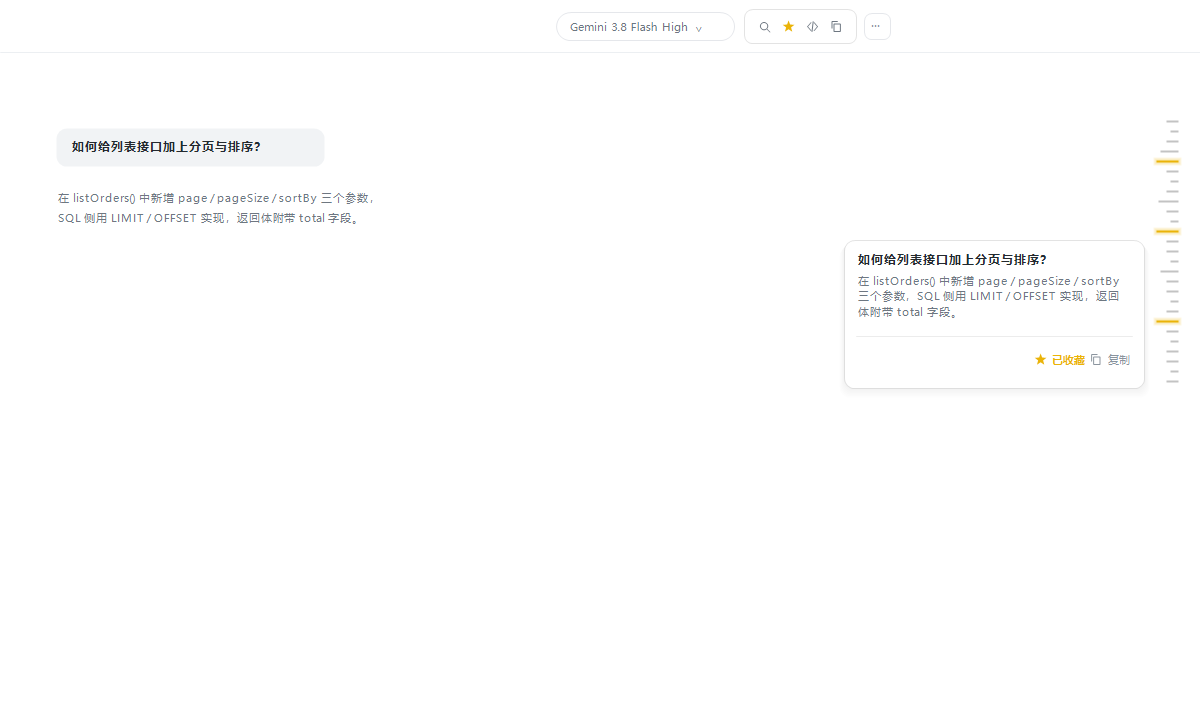
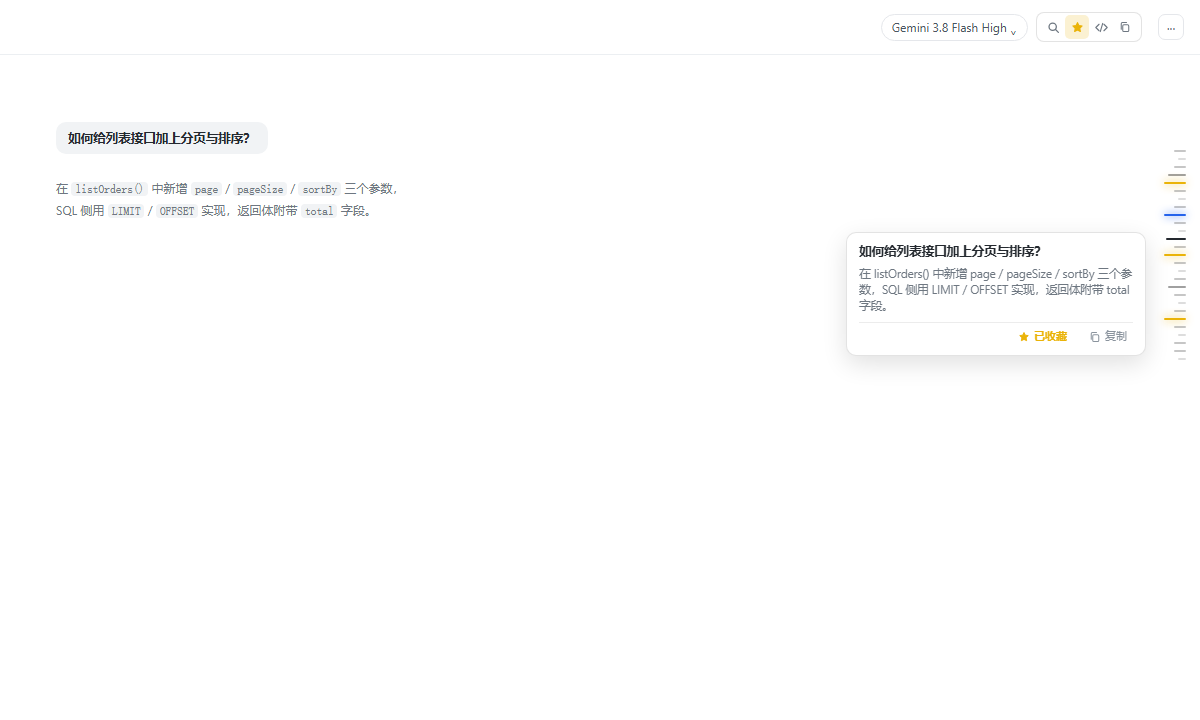
docs: re-render screenshots with Chrome headless using real plugin CSS; bump 0.4.10

diff --git a/CHANGELOG.md b/CHANGELOG.md
@@ -2,6 +2,14 @@
 
 All notable changes to `dsh-chat-toc` will be documented in this file.
 
+## [0.4.10] - 2026-09-12
+
+### Docs
+- **截图改用真实浏览器渲染**（Chrome headless，纯文档版本）：
+  - 上一版 0.4.9 的图由 GDI+ 程序化绘制；本次改用 Chrome 加载插件**真实 CSS 与图标 SVG** 渲染，字体、间距、圆角、阴影与真实 UI 完全一致；
+  - 图片内容仍为脱敏示例（通用分页问题），**不含任何真实对话或业务内容**；
+  - 过滤示意图中未收藏刻度不透明度由实际的 `0.08` 提高到 `0.18`，仅为让静态图里轨道结构可辨。
+- 记录一处排查经验：在 Windows 服务会话里**直接调用** `chrome`/`msedge` 并捕获 stdio 会静默无产出；改用 `Start-Process`（不接管 stdio）后即可正常渲染。
 ## [0.4.9] - 2026-09-12
 
 ### Docs

diff --git a/README.es.md b/README.es.md
@@ -34,11 +34,11 @@ Un plugin de navegación y mejora de índice para la GUI web de DSH: **potencia 
 
 **1. Tarjeta Emergente (Pregunta + Respuesta de IA con acciones de Destacar/Copiar, y Barra Superior):**
 
-![Vista previa de tarjeta emergente](docs/toc-pop.png?v=0.4.9)
+![Vista previa de tarjeta emergente](docs/toc-pop.png?v=0.4.10)
 
 **2. Filtro de Destacados Activo (Marcas destacadas brillan en dorado y el resto se atenúa):**
 
-![Resaltado de marcas](docs/toc-bar.png?v=0.4.9)
+![Resaltado de marcas](docs/toc-bar.png?v=0.4.10)
 
 ## Requisitos
 

diff --git a/README.md b/README.md
@@ -34,11 +34,11 @@ DSH Web GUI 的对话导航与大纲增强插件：**深度赋能官方原生 Tu
 
 **1. 悬停卡片（提问 + AI 核心回复预览，内嵌收藏与复制，右上角扁平工具条）：**
 
-![悬停卡片预览](docs/toc-pop.png?v=0.4.9)
+![悬停卡片预览](docs/toc-pop.png?v=0.4.10)
 
 **2. 开启顶部 ⭐ 收藏过滤（已收藏刻度呈金色粒子长条高亮闪耀，未收藏线条淡化）：**
 
-![全轨收藏高亮](docs/toc-bar.png?v=0.4.9)
+![全轨收藏高亮](docs/toc-bar.png?v=0.4.10)
 
 ## 环境要求
 

diff --git a/README.en.md b/README.en.md
@@ -34,11 +34,11 @@ A native conversation navigation and table-of-contents enhancer for the DSH Web 
 
 **1. Hover Card (Prompt + AI Response Preview with Inlined Star/Copy actions, and the Inline Top Toolbar):**
 
-![Hover Card Preview](docs/toc-pop.png?v=0.4.9)
+![Hover Card Preview](docs/toc-pop.png?v=0.4.10)
 
 **2. Starred Filter Active (Starred marks shine in golden glow, non-starred marks dim down):**
 
-![Rail Marks Highlight](docs/toc-bar.png?v=0.4.9)
+![Rail Marks Highlight](docs/toc-bar.png?v=0.4.10)
 
 ## Requirements
 
